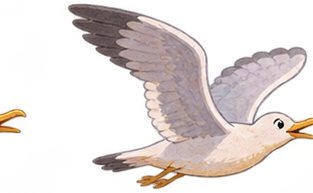
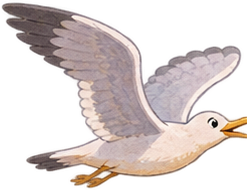
update

diff --git a/index.html b/index.html
@@ -11,7 +11,7 @@ const random=(a,b)=>a+Math.random()*(b-a), clamp=(x,a,b)=>Math.max(a,Math.min(b,
 const imagePaths=[];
 for(const [k,v] of Object.entries(paths))imagePaths.push([k,'assets/'+v+'.png']);
 for(let i=0;i<12;i++)imagePaths.push(['gull'+i,'assets/gull/fly_'+String(i).padStart(2,'0')+'.png']);
-for(const n of ['bald','grandma','woman','headphones','tourist','courier','fashion','coffee'])imagePaths.push(['person_'+n,'assets/people/'+n+'.png']);
+for(const n of ['bald','grandma','woman','headphones','tourist','courier','fashion','coffee']){imagePaths.push(['person_'+n,'assets/people/'+n+'.png']);for(let f=0;f<4;f++)imagePaths.push(['walk_'+n+'_'+f,'assets/people/walk/'+n+'_'+f+'.png']);}
 for(let i=0;i<8;i++)imagePaths.push(['car'+i,'assets/cars/car_'+String(i).padStart(2,'0')+'.png']);
 for(const n of ['lamp','bench','tree_green','tree_pink','tree_gold','postbox','bin','hydrangea','plant','sign'])imagePaths.push(['prop_'+n,'assets/props/'+n+'.png']);
 for(const n of ['badge','burst','bald_bonus','spark','cloud','water_0','water_1','water_2','water_3','water_4'])imagePaths.push(['fx_'+n,'assets/fx/'+n+'.png']);
@@ -19,7 +19,7 @@ Promise.all(imagePaths.map(([name,path])=>new Promise(resolve=>{let im=new Image
 function resize(){W=innerWidth;H=innerHeight;D=Math.min(devicePixelRatio||1,2);canvas.width=Math.floor(W*D);canvas.height=Math.floor(H*D);ctx.setTransform(D,0,0,D,0,0);ctx.imageSmoothingEnabled=true;}
 function setup(){resize();people=[];cars=[];for(let i=0;i<Math.max(11,W/100);i++)addPerson(random(0,W+100));for(let i=0;i<Math.max(4,W/250);i++)addCar(random(0,W+200));}
 addEventListener('resize',()=>resize());
-function floorY(){return H*.745} function roadY(){return H*.94}
+function floorY(){return H*.815} function roadY(){return H*.94}
 function bird(){return {x:W*.285,y:H*.22+Math.sin(time*1.5)*Math.min(12,H*.018)}};
 function addPerson(x=W+random(70,220)){let list=['bald','grandma','woman','headphones','tourist','courier','fashion','coffee'];let type=Math.random()<.19?'bald':list[1+Math.floor(random(0,7))];people.push({x,type,speed:random(14,40),phase:random(0,7),hit:false,seed:Math.random()})}
 function addCar(x=W+random(80,400)){cars.push({x,type:Math.floor(random(0,8)),speed:random(40,105),hit:false,phase:random(0,7)})}
@@ -35,9 +35,9 @@ function scene(){let fy=floorY();drawImage(imgs.sky,0,0,W,H);layerTile(imgs.skyl
 // Soft, sparse foreground prop accents, placed deterministically in world coordinates.
 let unit=510,offset=(world*1.04)%unit;for(let i=-1;i<W/unit+2;i++){let k=i+Math.floor(world*1.04/unit),px=i*unit-offset;if(k%3===0)prop('lamp',px+60,fy+8,42,H*.24);if(k%4===1)prop('tree_green',px+330,fy+12,100,H*.28);}
 }
-function drawPedestrians(){let y=floorY()+Math.min(18,H*.025);for(let p of people){let h=clamp(H*.145,66,118),im=imgs['person_'+p.type],w=im?h*(im.width/im.height):h*.55;let bob=Math.abs(Math.sin(time*4+p.phase))*1.4;drawImage(im,p.x-w*.5,y-h-bob,w,h);p._box={left:p.x-w*.36,right:p.x+w*.36,top:y-h+5,bottom:y-8};if(p.hit){ctx.fillStyle='#a6c6cbb5';ctx.beginPath();ctx.ellipse(p.x,y-h*.91,10,4,.14,0,Math.PI*2);ctx.fill()}}}
+function drawPedestrians(){let y=floorY()+Math.min(13,H*.016);for(let p of people){let h=clamp(H*.145,66,118),frame=Math.floor((time*6+p.phase)%4),im=imgs['walk_'+p.type+'_'+frame]||imgs['person_'+p.type],w=im?h*(im.width/im.height):h*.55;let bob=Math.abs(Math.sin(time*6+p.phase))*2.4;ctx.save();ctx.translate(p.x,y-bob);ctx.rotate(Math.sin(time*6+p.phase)*.012);drawImage(im,-w*.5,-h,w,h);ctx.restore();p._box={left:p.x-w*.36,right:p.x+w*.36,top:y-h+5,bottom:y-4};if(p.hit){ctx.fillStyle='#a6c6cbb5';ctx.beginPath();ctx.ellipse(p.x,y-h*.91,10,4,.14,0,Math.PI*2);ctx.fill()}}}
 function drawCars(){let y=roadY();for(let car of cars){let h=clamp(H*.14,65,112),im=imgs['car'+car.type],w=im?h*im.width/im.height:h*1.65;drawImage(im,car.x-w/2,y-h,w,h);car._box={left:car.x-w*.46,right:car.x+w*.46,top:y-h*.85,bottom:y-12};if(car.hit){ctx.fillStyle='#b8d8dd99';ctx.beginPath();ctx.ellipse(car.x,y-h*.84,18,6,0,0,7);ctx.fill()}}}
-function drawGull(){let index=Math.floor((time*9)%8),im=imgs['gull'+index],b=bird();let w=clamp(W*.145,100,186),h=im?w*im.height/im.width:w*.6;drawImage(im,b.x-w*.48,b.y-h*.48,w,h)}
+function drawGull(){let frames=[2,3,4,5,6,9,11,9,6,5,4,3],index=frames[Math.floor((time*8)%frames.length)],im=imgs['gull'+index],b=bird();let w=clamp(W*.145,100,186),h=im?w*im.height/im.width:w*.6;let scale=Math.min(1,clamp(H*.21,80,155)/h);w*=scale;h*=scale;drawImage(im,b.x-w*.48,b.y-h*.48,w,h)}
 function reward(target,points,label){if(target.hit)return;target.hit=true;score+=points;hits++;$('score').textContent=score;$('hits').textContent=hits+' hits';bursts.push({x:target.x,y:target._box.top-15,life:1.25,points,label,kind:points===5?'bald_bonus':points===1?'spark':'burst'});play(points===5?780:points===2?580:440,.13,.012)}
 function splashAt(x,y){bursts.push({x,y,life:.5,kind:'water_3',points:0,label:''})}
 function drawDrops(dt){for(let d of drops){d.delay-=dt;if(d.delay>0)continue;if(d.dead)continue;
@@ -49,7 +49,19 @@ for(const car of cars)if(!d.dead&&!car.hit&&car._box&&d.x>=car._box.left&&d.x<=c
 if(d.y>roadY()){d.dead=true;splashAt(d.x,roadY()-7)}
 if(d.dead)continue;ctx.lineCap='round';ctx.lineWidth=d.r*.95;ctx.strokeStyle='#deeff7ed';ctx.beginPath();d.trail.forEach((p,i)=>i?ctx.lineTo(p.x,p.y):ctx.moveTo(p.x,p.y));ctx.stroke();ctx.fillStyle='#ccecf9';ctx.beginPath();ctx.ellipse(d.x,d.y,d.r*.7,d.r*1.65,0,0,7);ctx.fill();}
 drops=drops.filter(d=>!d.dead&&d.age<3)}
-function drawBursts(dt){for(let b of bursts){b.life-=dt;b.y-=dt*17;ctx.globalAlpha=clamp(b.life*1.6,0,1);if(b.kind==='water_3'){drawImage(imgs.fx_water_3,b.x-21,b.y-18,42,35)}else{let im=imgs['fx_'+b.kind];if(im)drawImage(im,b.x-37,b.y-29,74,58);ctx.fillStyle='#5e5261';ctx.font='bold 20px system-ui';ctx.textAlign='center';ctx.fillText('+'+b.points,b.x,b.y+4);ctx.font='bold 10px system-ui';ctx.fillText(b.label,b.x,b.y+19)}ctx.globalAlpha=1}bursts=bursts.filter(b=>b.life>0)}
+function comicBurst(x,y,points,label,life,kind){
+ const scale=.87+Math.sin((1.25-life)*11)*.08;
+ ctx.save();ctx.translate(x,y);ctx.scale(scale,scale);ctx.rotate(Math.sin(x*.123)*.11);
+ const n=11,r=points===5?46:36;
+ ctx.shadowColor='#3b2945aa';ctx.shadowBlur=9;ctx.shadowOffsetY=5;
+ ctx.beginPath();for(let i=0;i<n*2;i++){let a=i*Math.PI/n-Math.PI/2,rr=i%2?r*.78:r;ctx.lineTo(Math.cos(a)*rr,Math.sin(a)*rr*.72)}ctx.closePath();
+ ctx.fillStyle=points===5?'#ffd738':points===2?'#ff70ae':'#62d6ff';ctx.fill();ctx.shadowColor='transparent';
+ ctx.lineWidth=4;ctx.strokeStyle='#fff';ctx.stroke();ctx.lineWidth=2.5;ctx.strokeStyle='#41324f';ctx.stroke();
+ ctx.textAlign='center';ctx.textBaseline='middle';ctx.lineJoin='round';ctx.font='1000 30px system-ui,sans-serif';
+ ctx.lineWidth=6;ctx.strokeStyle='#452a54';ctx.strokeText('+'+points,0,-5);ctx.fillStyle='#fff';ctx.fillText('+'+points,0,-5);
+ ctx.font='1000 10px system-ui,sans-serif';ctx.lineWidth=3;ctx.strokeText(label,0,18);ctx.fillStyle=points===5?'#a61e59':'#332747';ctx.fillText(label,0,18);
+ ctx.restore();}
+function drawBursts(dt){for(let b of bursts){b.life-=dt;b.y-=dt*17;ctx.globalAlpha=clamp(b.life*2,0,1);if(b.kind==='water_3'){drawImage(imgs.fx_water_3,b.x-21,b.y-18,42,35)}else comicBurst(b.x,b.y,b.points,b.label,b.life,b.kind);ctx.globalAlpha=1}bursts=bursts.filter(b=>b.life>0)}
 function update(dt){time+=dt;let velocity=clamp(W*.12,66,160);world+=velocity*dt;$('meters').textContent=Math.floor(world/12)+' m flown';for(let p of people)p.x-=(velocity*.98+p.speed)*dt;for(let car of cars)car.x-=(velocity*.98+car.speed)*dt;people=people.filter(p=>p.x>-130);cars=cars.filter(c=>c.x>-240);let npeople=clamp(Math.round(W/110),7,17),ncars=clamp(Math.round(W/280),3,8);while(people.length<npeople)addPerson(W+random(35,190));while(cars.length<ncars)addCar(W+random(90,380))}
 function loop(now){let dt=Math.min(.035,(now-last)/1000||.016);last=now;if(!paused)update(dt);ctx.clearRect(0,0,W,H);scene();drawPedestrians();drawCars();if(!paused)drawDrops(dt);else drawDrops(0);drawGull();drawBursts(paused?0:dt);requestAnimationFrame(loop)}
 })();

diff --git a/README.md b/README.md
@@ -66,3 +66,8 @@ This is a first playable prototype. Pedestrians use subtle bobbing instead of wa
 ## License
 
 No license has been selected yet. All rights reserved until the owner chooses one.
+
+## v0.3 corrections
+- Pedestrians aligned with sidewalk and animated using four procedural stride frames per character.
+- Seagull uses a safe, cleaned flight sequence; stray fragments removed.
+- High contrast comic-style score popups for hits.
